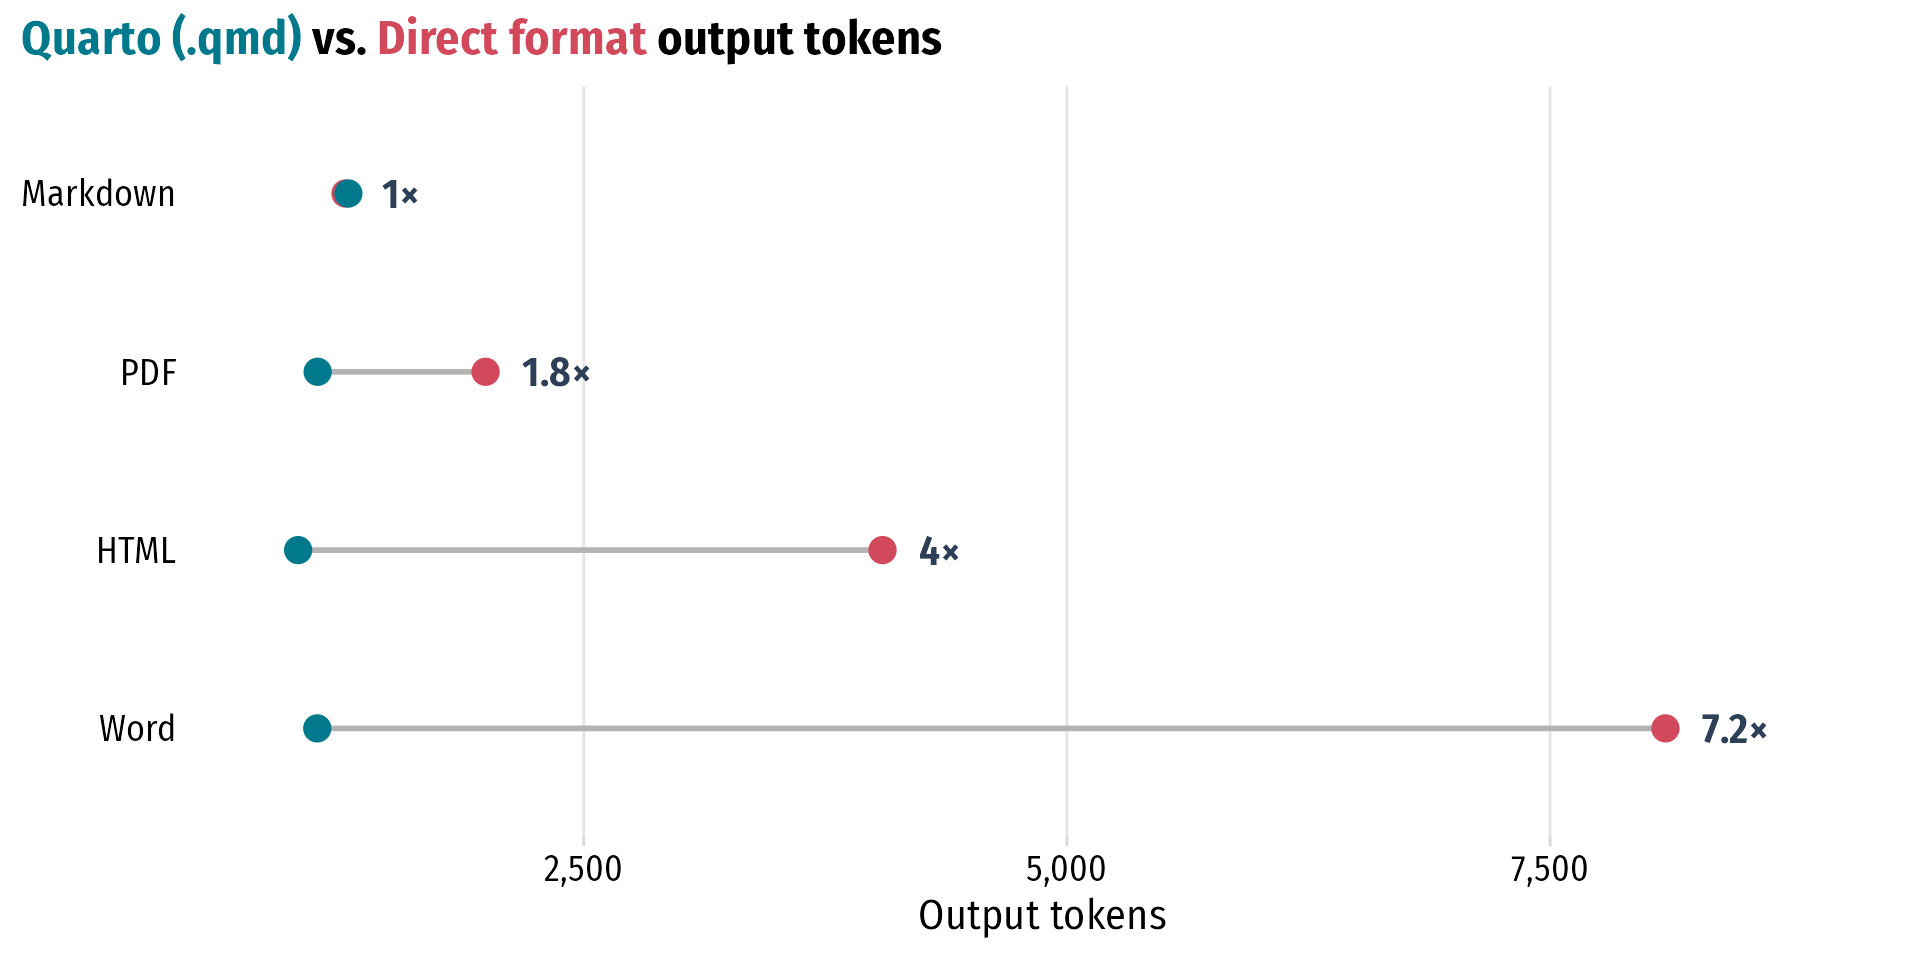
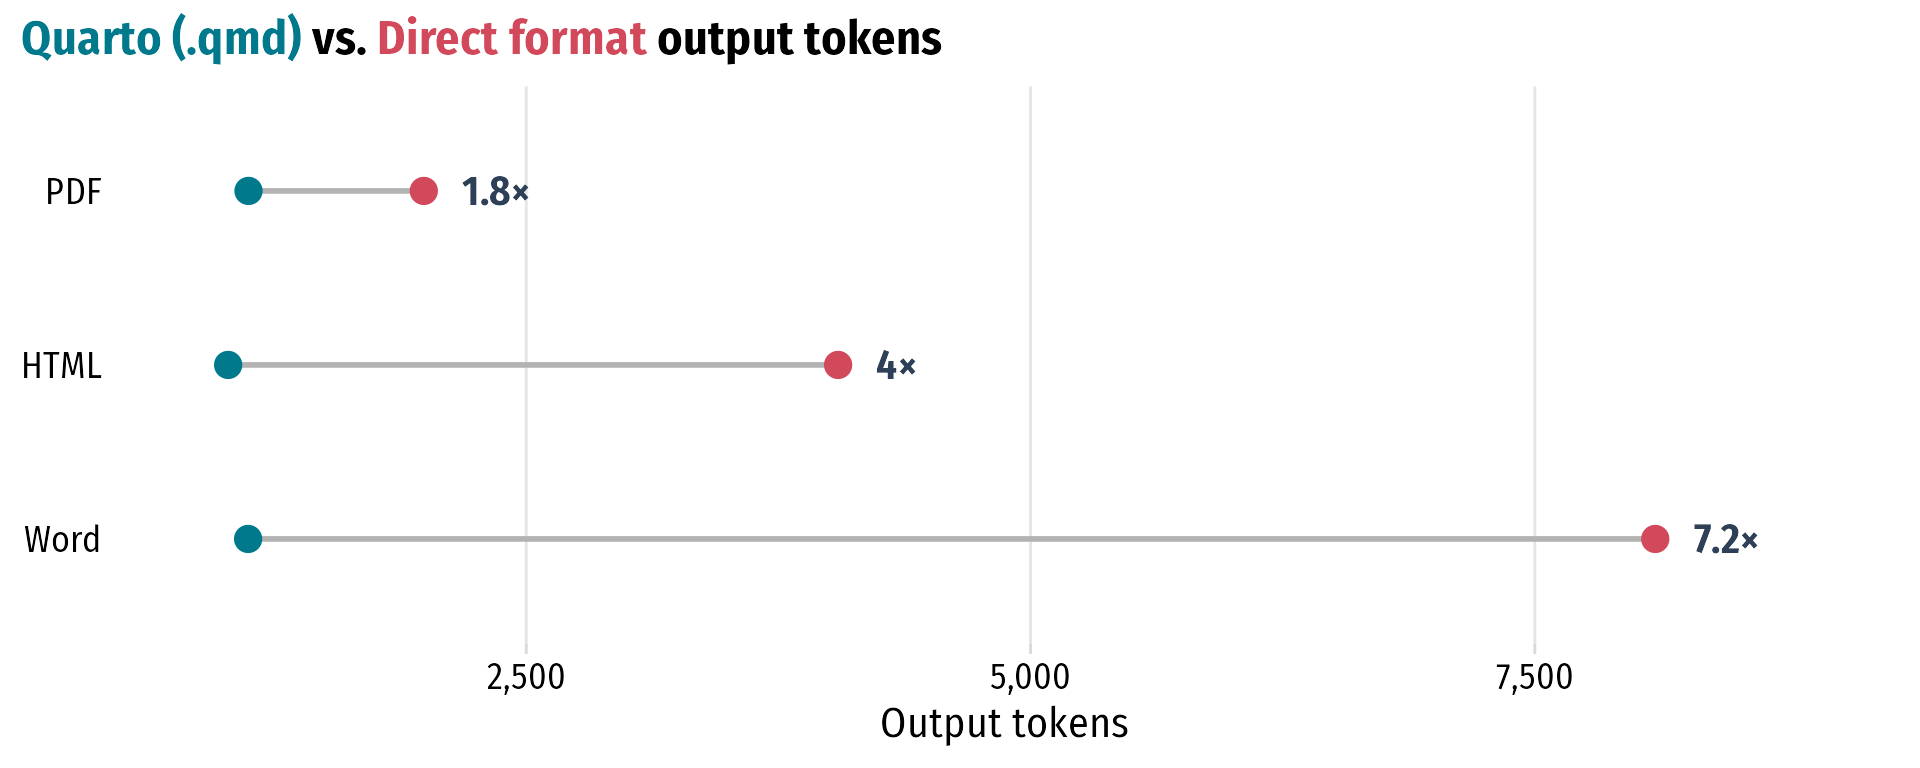
tweaks to plots

diff --git a/index.html b/index.html
@@ -1658,15 +1658,6 @@ built-in one.
 </section>
 <section class="slide level0">
 
-<h2>And that’s just the first turn</h2>
-<blockquote>
-<p><strong>[CHART or TABLE — multi-turn token cost]</strong> Cost growth across an agentic session, direct output vs.&nbsp;<code>.qmd</code>. Author to supply — numbers from the revised blog post.</p>
-</blockquote>
-<p>Every edit to a fused artifact <strong>regenerates the whole thing.</strong></p>
-<p>An edit to a <code>.qmd</code> is a <strong>diff.</strong></p>
-</section>
-<section class="slide level0">
-
 <section class="lexis-slide-title middle center" data-background-color="#000000">
 <h1 class="lexis-slide-title"></h1>
 <center>
@@ -1885,8 +1876,8 @@ built-in one.
 <div class="col" style="flex:0 1 60%;width:60%">
 <div class="cell">
 <div class="cell-output-display">
-<div id="htmlwidget-bd350eba0daf5386801c" style="width:100%;height:460px;" class="echarts4r html-widget"></div>
-<script type="application/json" data-for="htmlwidget-bd350eba0daf5386801c">{"x":{"theme":"","tl":false,"draw":true,"renderer":"canvas","events":[],"buttons":[],"opts":{"yAxis":[{"show":true,"name":"% of new listings","nameLocation":"middle","nameGap":50}],"xAxis":[{"type":"value","name":"Listing year"}],"legend":{"data":["BEV","Flex Fuel","Fuel Cell","Gasoline","Hybrid","PHEV"],"show":true,"type":"plain","bottom":0,"textStyle":{"fontSize":18}},"series":[{"data":[{"value":[2018,0.37]},{"value":[2019,0.5]},{"value":[2020,0.5]},{"value":[2021,1.25]},{"value":[2022,2]},{"value":[2023,3.35]},{"value":[2024,4.63]},{"value":[2025,4.25]}],"yAxisIndex":0,"xAxisIndex":0,"name":"BEV","type":"line","coordinateSystem":"cartesian2d"},{"data":[{"value":[2018,5.51]},{"value":[2019,4.28]},{"value":[2020,2.72]},{"value":[2021,1.4]},{"value":[2022,1.34]},{"value":[2023,1.47]},{"value":[2024,1.75]},{"value":[2025,2.5]}],"yAxisIndex":0,"xAxisIndex":0,"name":"Flex Fuel","type":"line","coordinateSystem":"cartesian2d"},{"data":[{"value":[2018,0.01]},{"value":[2019,0.01]},{"value":[2020,0.01]},{"value":[2021,0]}],"yAxisIndex":0,"xAxisIndex":0,"name":"Fuel Cell","type":"line","coordinateSystem":"cartesian2d"},{"data":[{"value":[2018,91.31]},{"value":[2019,92.14]},{"value":[2020,92.59999999999999]},{"value":[2021,91.59999999999999]},{"value":[2022,93.43000000000001]},{"value":[2023,91.04000000000001]},{"value":[2024,89.20999999999999]},{"value":[2025,88.59999999999999]}],"yAxisIndex":0,"xAxisIndex":0,"name":"Gasoline","type":"line","coordinateSystem":"cartesian2d"},{"data":[{"value":[2018,2.2]},{"value":[2019,2.63]},{"value":[2020,3.94]},{"value":[2021,5.49]},{"value":[2022,3.06]},{"value":[2023,3.99]},{"value":[2024,4.25]},{"value":[2025,4.52]}],"yAxisIndex":0,"xAxisIndex":0,"name":"Hybrid","type":"line","coordinateSystem":"cartesian2d"},{"data":[{"value":[2018,0.61]},{"value":[2019,0.45]},{"value":[2020,0.23]},{"value":[2021,0.26]},{"value":[2022,0.17]},{"value":[2023,0.15]},{"value":[2024,0.17]},{"value":[2025,0.13]}],"yAxisIndex":0,"xAxisIndex":0,"name":"PHEV","type":"line","coordinateSystem":"cartesian2d"}],"tooltip":{"trigger":"axis"},"grid":[{"left":90,"right":40,"top":30,"bottom":90}]},"dispose":true},"evals":[],"jsHooks":[]}</script>
+<div id="htmlwidget-f448a995b7fb09937cad" style="width:100%;height:460px;" class="echarts4r html-widget"></div>
+<script type="application/json" data-for="htmlwidget-f448a995b7fb09937cad">{"x":{"theme":"","tl":false,"draw":true,"renderer":"canvas","events":[],"buttons":[],"opts":{"yAxis":[{"show":true,"name":"% of new listings","nameLocation":"middle","nameGap":50}],"xAxis":[{"type":"value","name":"Listing year"}],"legend":{"data":["BEV","Flex Fuel","Fuel Cell","Gasoline","Hybrid","PHEV"],"show":true,"type":"plain","bottom":0,"textStyle":{"fontSize":18}},"series":[{"data":[{"value":[2018,0.37]},{"value":[2019,0.5]},{"value":[2020,0.5]},{"value":[2021,1.25]},{"value":[2022,2]},{"value":[2023,3.35]},{"value":[2024,4.63]},{"value":[2025,4.25]}],"yAxisIndex":0,"xAxisIndex":0,"name":"BEV","type":"line","coordinateSystem":"cartesian2d"},{"data":[{"value":[2018,5.51]},{"value":[2019,4.28]},{"value":[2020,2.72]},{"value":[2021,1.4]},{"value":[2022,1.34]},{"value":[2023,1.47]},{"value":[2024,1.75]},{"value":[2025,2.5]}],"yAxisIndex":0,"xAxisIndex":0,"name":"Flex Fuel","type":"line","coordinateSystem":"cartesian2d"},{"data":[{"value":[2018,0.01]},{"value":[2019,0.01]},{"value":[2020,0.01]},{"value":[2021,0]}],"yAxisIndex":0,"xAxisIndex":0,"name":"Fuel Cell","type":"line","coordinateSystem":"cartesian2d"},{"data":[{"value":[2018,91.31]},{"value":[2019,92.14]},{"value":[2020,92.59999999999999]},{"value":[2021,91.59999999999999]},{"value":[2022,93.43000000000001]},{"value":[2023,91.04000000000001]},{"value":[2024,89.20999999999999]},{"value":[2025,88.59999999999999]}],"yAxisIndex":0,"xAxisIndex":0,"name":"Gasoline","type":"line","coordinateSystem":"cartesian2d"},{"data":[{"value":[2018,2.2]},{"value":[2019,2.63]},{"value":[2020,3.94]},{"value":[2021,5.49]},{"value":[2022,3.06]},{"value":[2023,3.99]},{"value":[2024,4.25]},{"value":[2025,4.52]}],"yAxisIndex":0,"xAxisIndex":0,"name":"Hybrid","type":"line","coordinateSystem":"cartesian2d"},{"data":[{"value":[2018,0.61]},{"value":[2019,0.45]},{"value":[2020,0.23]},{"value":[2021,0.26]},{"value":[2022,0.17]},{"value":[2023,0.15]},{"value":[2024,0.17]},{"value":[2025,0.13]}],"yAxisIndex":0,"xAxisIndex":0,"name":"PHEV","type":"line","coordinateSystem":"cartesian2d"}],"tooltip":{"trigger":"axis"},"grid":[{"left":90,"right":40,"top":30,"bottom":90}]},"dispose":true},"evals":[],"jsHooks":[]}</script>
 </div>
 </div>
 </div>

diff --git a/CLAUDE.md b/CLAUDE.md
@@ -63,9 +63,28 @@ Outline: `outline.md`.
 
 `fig-tokens` differs from the blog version deliberately: Fira Sans Condensed,
 minou colors, no per-dot counts, and a bold multiplier right of each
-direct-format dot (1× 1.8× 4× 7.2×) computed from the CSV. The x-axis right
+direct-format dot (1.8× 4× 7.2×) computed from the CSV. The x-axis right
 expansion (`0.14`) holds those multipliers — shrink it and `7.2×` clips.
 `dpi = 192` gives 1920×960, matching the post.
+
+**Markdown is filtered out** (`filter(output_type != "markdown")`) — it was the
+post's control, but the `.qmd` line already makes that point on a slide. Three
+formats, three rows, three multipliers.
+
+❌ **Don't rebuild the multi-turn chart.** A `fig-turns` figure existed briefly —
+cumulative tokens over 10 editing turns, linear regime (`d × turn`). It was cut
+because `d` cancels: every line is fig-tokens' `d` times a constant, so the
+ratios are identical at turn 1 and turn 10 and the picture is fig-tokens
+rescaled. No new shape, no new information. The quadratic bound
+(`d · N(N+1)/2`) *would* be a new shape, but it's the worst case and invites
+"Claude Code edits by diff" — not worth a minute of a 20-minute talk. The point
+is now **verbal**, on the `Token tax compounds over turns` slide: 80,970 tokens
+vs. ~11,000 after ten edits, plus *the ratio never moves, the gap does* — which
+concedes the constant ratio rather than letting the room catch it.
+
+`~11,000` is a deliberate round of the real 10,220–11,230 (Quarto HTML / PDF /
+Word). The tilde is what makes it honest; ❌ don't replace it with one exact
+number, and don't pick one of the three.
 
 **`images/`** — flat. `handwriting-good-minecraft.png` does double duty (the
 drifted sheet in Act 1, the minecraft sheet on the payoff slide); swapping it
@@ -474,13 +493,9 @@ not an image attribute block), `.openleft`/`.openright`, and a commented-out
   or a site or these slides. ~8 seconds. ❌ No dedicated explainer slide.
 - **Build Act 6's *change one word* slide** — `format: pdf` → `format: html`,
   content unchanged. Not built.
-- **Produce remaining demo assets** — only the multi-turn token chart is still
-  `> **[BRACKETED]**`. The dashboard recording (`vehicletrends.gif`) and the
-  live inline chart are built.
-- **Multi-turn token data** — placeholder. The single-shot table is in the deck
-  (Word 8097→1121, HTML 4046→1022, PDF 1992→1123, Markdown 1267→1282). The
-  multi-turn numbers aren't published yet. **Never invent them.** Frame as the
-  measured version of the Act 1 anecdote, not a second benchmark.
+- **Demo assets are all built** — no `> **[BRACKETED]**` placeholders left.
+  The single-shot numbers are Word 8097→1121, HTML 4046→1022, PDF 1992→1123
+  (Markdown 1267→1282, now unused).
 - **Verify hosting** — unresolved from the filesystem, so the slide now says
   only "hosted for free." Confirm what answers for vehicletrends.us at the DNS
   level before naming a host.

diff --git a/plan.md b/plan.md
@@ -146,7 +146,10 @@ vehicletrends.us at the DNS level before writing a host name.
   serverless one. Needs a statement.
 - 44 slides for 20 minutes — worth a timed run.
 - Act 6's *change one word* slide (`format: pdf` → `format: html`) is still unbuilt.
-- The multi-turn token chart is still the deck's one bracketed placeholder.
+- ~~The multi-turn token chart~~ — built, then **cut**. `d` cancels, so the chart
+  was `fig-tokens` rescaled: same ratios at turn 1 and turn 10, no new shape. The
+  point is verbal now (80,970 vs. ~11,000 after ten edits). No bracketed
+  placeholders remain in the deck.
 
 ## Verification done
 
